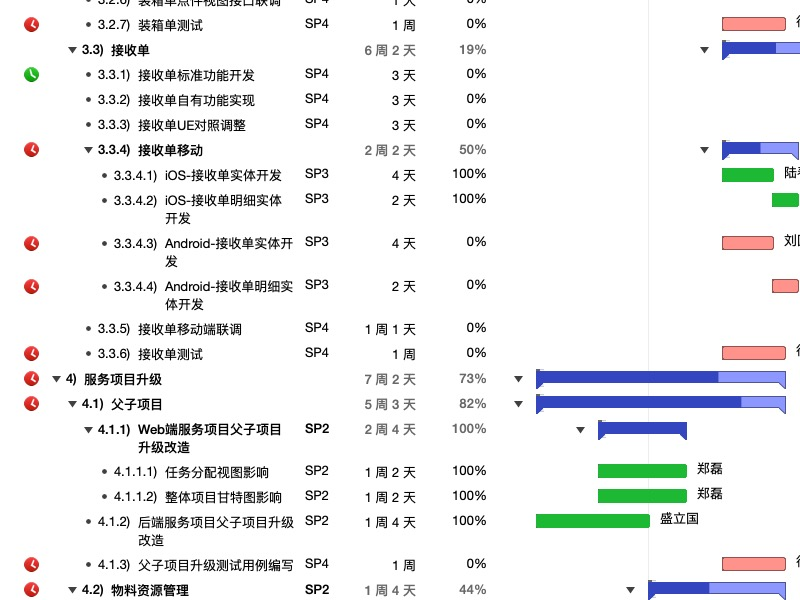
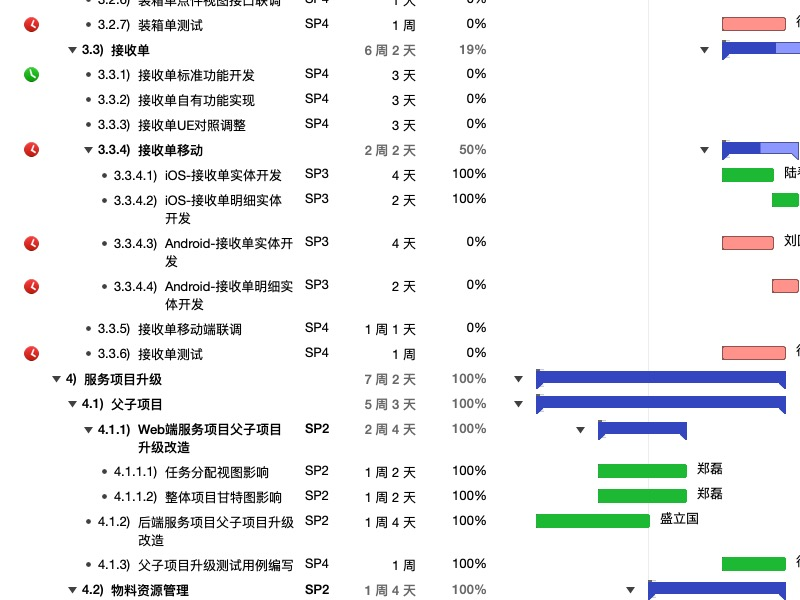
upgrade

diff --git a/FSCv1904/gantt.html b/FSCv1904/gantt.html
@@ -30,32 +30,32 @@
 	<h1>FSCv1904Plan：甘特图</h1>
 		<div class="tablewrap"><table border="0" cellspacing="0" cellpadding="0">
 <tr>
-	<td><img src="include/gantt0,0.jpg?nocacheTag=-1321434109" border=0/></td>
-	<td><img src="include/gantt1,0.jpg?nocacheTag=-929139329" border=0/></td>
+	<td><img src="include/gantt0,0.jpg?nocacheTag=1830158023" border=0/></td>
+	<td><img src="include/gantt1,0.jpg?nocacheTag=-998002803" border=0/></td>
 </tr>
 <tr>
-	<td><img src="include/gantt0,1.jpg?nocacheTag=-723317350" border=0/></td>
-	<td><img src="include/gantt1,1.jpg?nocacheTag=2146583350" border=0/></td>
+	<td><img src="include/gantt0,1.jpg?nocacheTag=982349171" border=0/></td>
+	<td><img src="include/gantt1,1.jpg?nocacheTag=911233221" border=0/></td>
 </tr>
 <tr>
-	<td><img src="include/gantt0,2.jpg?nocacheTag=1436907001" border=0/></td>
-	<td><img src="include/gantt1,2.jpg?nocacheTag=-1965771089" border=0/></td>
+	<td><img src="include/gantt0,2.jpg?nocacheTag=2034135006" border=0/></td>
+	<td><img src="include/gantt1,2.jpg?nocacheTag=-1868302470" border=0/></td>
 </tr>
 <tr>
-	<td><img src="include/gantt0,3.jpg?nocacheTag=-753962268" border=0/></td>
-	<td><img src="include/gantt1,3.jpg?nocacheTag=-405422274" border=0/></td>
+	<td><img src="include/gantt0,3.jpg?nocacheTag=-1717860315" border=0/></td>
+	<td><img src="include/gantt1,3.jpg?nocacheTag=1278418998" border=0/></td>
 </tr>
 <tr>
-	<td><img src="include/gantt0,4.jpg?nocacheTag=992807815" border=0/></td>
-	<td><img src="include/gantt1,4.jpg?nocacheTag=-1714204057" border=0/></td>
+	<td><img src="include/gantt0,4.jpg?nocacheTag=-632892232" border=0/></td>
+	<td><img src="include/gantt1,4.jpg?nocacheTag=118327275" border=0/></td>
 </tr>
 <tr>
-	<td><img src="include/gantt0,5.jpg?nocacheTag=86244209" border=0/></td>
-	<td><img src="include/gantt1,5.jpg?nocacheTag=-263235586" border=0/></td>
+	<td><img src="include/gantt0,5.jpg?nocacheTag=1592123184" border=0/></td>
+	<td><img src="include/gantt1,5.jpg?nocacheTag=903053517" border=0/></td>
 </tr>
 <tr>
-	<td><img src="include/gantt0,6.jpg?nocacheTag=-99647759" border=0/></td>
-	<td><img src="include/gantt1,6.jpg?nocacheTag=-498522480" border=0/></td>
+	<td><img src="include/gantt0,6.jpg?nocacheTag=339838901" border=0/></td>
+	<td><img src="include/gantt1,6.jpg?nocacheTag=2074331367" border=0/></td>
 </tr>
 </table>
 </div>

diff --git a/FSCv1904/task.html b/FSCv1904/task.html
@@ -696,7 +696,7 @@
 <td>2019/2/14 上午9:00</td>
 <td>2019/4/15 下午1:40</td>
 <td>8 周 2 天 2.667 小时</td>
-<td>34%</td>
+<td>35%</td>
 <td></td>
 <td class="total"></td>
 <td></td>
@@ -713,7 +713,7 @@
 <td>2019/2/14 上午9:00</td>
 <td>2019/4/2 下午4:20</td>
 <td>6 周 3 天 5.333 小时</td>
-<td>55%</td>
+<td>59%</td>
 <td></td>
 <td class="total"></td>
 <td></td>
@@ -880,18 +880,18 @@
 
             <tr class="taskTypeTask">
 <td style="padding-left: 38px;" class="wrap">3.1.6) 发运单测试</td>
-<td>2019/3/11 上午9:00</td>
-<td>2019/3/15 下午7:00</td>
+<td>2019/3/25 上午9:00</td>
+<td>2019/3/29 下午7:00</td>
 <td>1 周</td>
-<td>0%</td>
+<td>30%</td>
 <td></td>
 <td class="total"></td>
 <td>徐志雅</td>
 <td>2019/3/11 上午9:00</td>
-<td>0 小时</td>
-<td>2019/3/11 上午9:00</td>
+<td>2 周</td>
+<td>2019/3/25 上午9:00</td>
 <td>2019/3/15 下午7:00</td>
-<td>0 小时</td>
+<td>2 周</td>
 <td></td>
             </tr>
 
@@ -1291,7 +1291,7 @@
 <td>2019/2/18 上午9:00</td>
 <td>2019/3/15 下午7:00</td>
 <td>4 周</td>
-<td>73%</td>
+<td>100%</td>
 <td></td>
 <td class="total"></td>
 <td></td>
@@ -1308,7 +1308,7 @@
 <td>2019/2/18 上午9:00</td>
 <td>2019/3/15 下午7:00</td>
 <td>4 周</td>
-<td>82%</td>
+<td>100%</td>
 <td></td>
 <td class="total"></td>
 <td></td>
@@ -1393,7 +1393,7 @@
 <td>2019/3/11 上午9:00</td>
 <td>2019/3/15 下午7:00</td>
 <td>1 周</td>
-<td>0%</td>
+<td>100%</td>
 <td></td>
 <td class="total"></td>
 <td>徐志雅</td>
@@ -1410,7 +1410,7 @@
 <td>2019/3/1 上午9:00</td>
 <td>2019/3/15 下午7:00</td>
 <td>2 周 1 天</td>
-<td>44%</td>
+<td>100%</td>
 <td></td>
 <td class="total"></td>
 <td></td>
@@ -1461,7 +1461,7 @@
 <td>2019/3/11 上午9:00</td>
 <td>2019/3/15 下午7:00</td>
 <td>1 周</td>
-<td>0%</td>
+<td>100%</td>
 <td></td>
 <td class="total"></td>
 <td>徐志雅</td>

diff --git a/FSCv1904/resource.html b/FSCv1904/resource.html
@@ -363,9 +363,9 @@
             <tr class="resource Staff">
 <td style="padding-left: 20px;">徐志雅</td>
 <td>2019/2/27 上午9:00</td>
-<td>2019/3/15 下午7:00</td>
+<td>2019/3/29 下午7:00</td>
 <td>7 周</td>
-<td>29%</td>
+<td>61%</td>
 <td></td>
             </tr>
 
@@ -397,15 +397,6 @@
             </tr>
 
             <tr>
-<td style="padding-left: 28px;" class="wrap taskTypeTask">发运单测试</td> 
-<td>2019/3/11 上午9:00</td>
-<td>2019/3/15 下午7:00</td>
-<td>1 周</td>
-<td>0%</td>
-<td></td>
-            </tr>
-
-            <tr>
 <td style="padding-left: 28px;" class="wrap taskTypeTask">装箱单测试</td> 
 <td>2019/3/11 上午9:00</td>
 <td>2019/3/15 下午7:00</td>
@@ -428,7 +419,7 @@
 <td>2019/3/11 上午9:00</td>
 <td>2019/3/15 下午7:00</td>
 <td>1 周</td>
-<td>0%</td>
+<td>100%</td>
 <td></td>
             </tr>
 
@@ -437,7 +428,16 @@
 <td>2019/3/11 上午9:00</td>
 <td>2019/3/15 下午7:00</td>
 <td>1 周</td>
-<td>0%</td>
+<td>100%</td>
+<td></td>
+            </tr>
+
+            <tr>
+<td style="padding-left: 28px;" class="wrap taskTypeTask">发运单测试</td> 
+<td>2019/3/25 上午9:00</td>
+<td>2019/3/29 下午7:00</td>
+<td>1 周</td>
+<td>30%</td>
 <td></td>
             </tr>
  

diff --git a/FSCv1904/index.html b/FSCv1904/index.html
@@ -32,8 +32,8 @@
 			<p class="number"><span class="data-missing">无</span></p>
 		</div>
 		<div id="completed" class="box">
-			<h2><span class="number">43%</span>已完成</h2>
-			<div id="bar"><div id="fill" style="width:43%;"></div></div>
+			<h2><span class="number">46%</span>已完成</h2>
+			<div id="bar"><div id="fill" style="width:46%;"></div></div>
 			<p><span class="label">开始：</span>2019/1/28 上午9:00</p>
 			<p><span class="label">结束日期：</span>2019/4/30 下午7:00</p>
 			<p><span class="label">差异：</span>2 周 1 天</p>
@@ -94,9 +94,9 @@
             <tr class="resource Staff">
 <td style="padding-left: 20px;">徐志雅</td>
 <td>2019/2/27 上午9:00</td>
-<td>2019/3/15 下午7:00</td>
+<td>2019/3/29 下午7:00</td>
 <td>7 周</td>
-<td>29%</td>
+<td>61%</td>
 <td></td>
             </tr>
 
